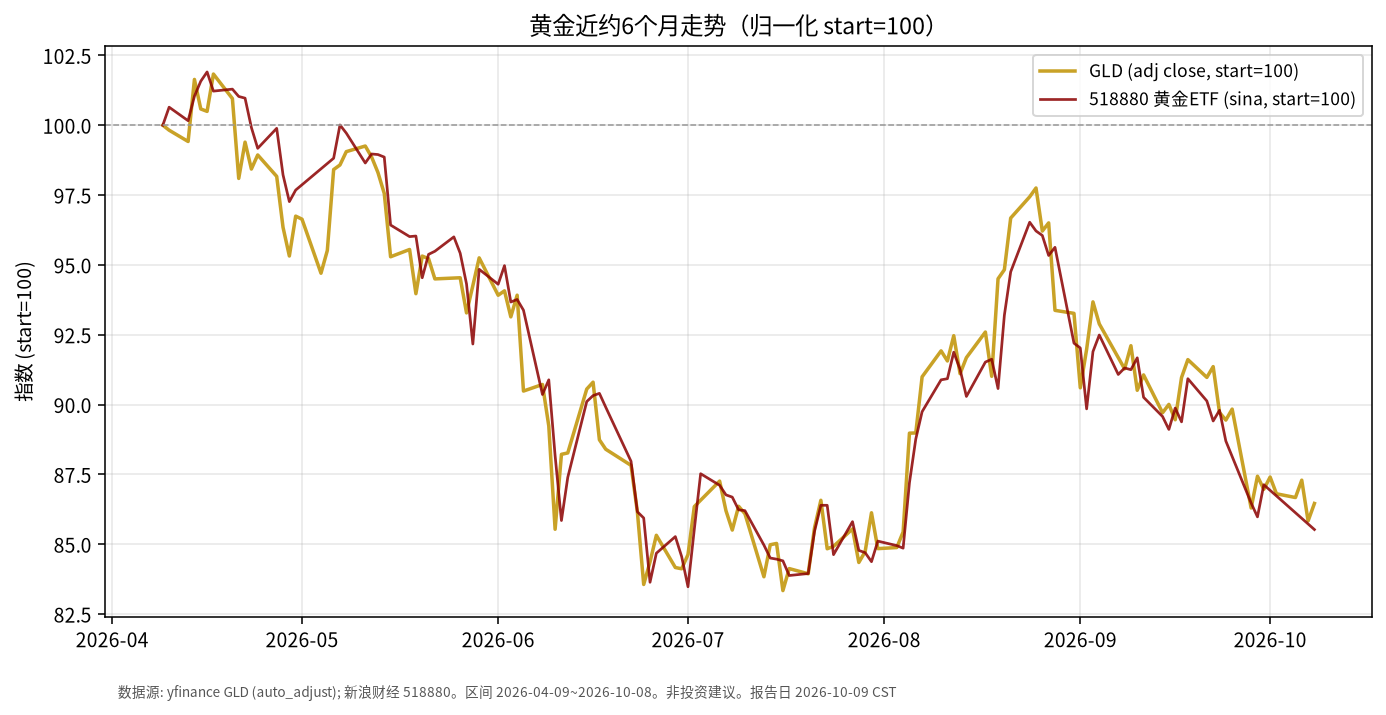
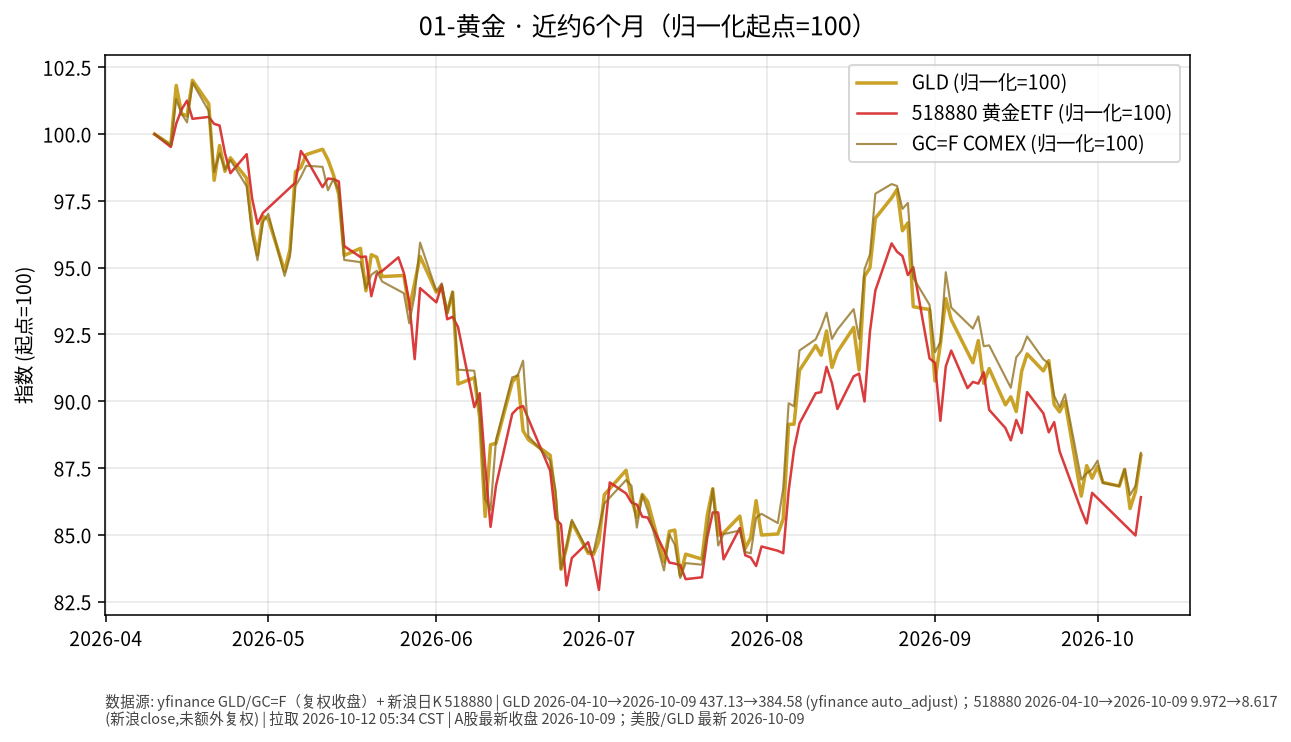
docs: 五门类投资日报 2026-10-12

Changed region(s): [[0.0, 0.0, 0.9915, 0.9846]]

diff --git a/01-黄金/日报/2026-10-12.md b/01-黄金/日报/2026-10-12.md
@@ -1,0 +1,44 @@
+# 黄金日报 · 2026-10-12
+
+> 日历说明：报告日为 **2026-10-12（周一，Asia/Shanghai）清晨约 05:30**。A股国庆休市为 10/1–10/7，**10/8 起照常开市**；**2026-10-10 为周六**（非交易日）。本报告撰写时 A股当日尚未开盘，**国内相关收盘价取 2026-10-09（周五）**。美股/GLD 取 **2026-10-09** 收盘（周末及周一美股哥伦布日休市安排以交易所公告为准，本稿不引用未公布收盘）。
+
+![近6个月](charts/gold_6m.png)
+
+## 1. 市场状态
+
+- 海外现货金价在 10/9（周五）延续反弹：公开报道现货收于约 **4194～4199 美元/盎司**量级（当日约 **+1.5%**），盘中一度试探 **4200** 上方后回落；COMEX 黄金期货（GC=F）当日收于约 **4216**。
+- ETF 口径：**GLD** 10/9 收盘 **384.58**，较前一交易日 **378.62** 上涨约 **+1.57%**，为近一周相对强势一日。
+- 在岸代理：华安黄金 ETF **518880** 10/9 收盘 **8.617**，较 10/8 的 **8.474** 约 **+1.69%**；上金所 Au99.99 10/9 收盘约 **904.48 元/克**（约 +1.40%）。节前 9/30 的 518880 收于 **8.633**，两日合计仍略低于节前。
+- 宏观背景（公开报道）：美债 10 年期收益率 10/9 收于约 **5.244%**（较 10/8 的 5.231% 略升约 **1.3 bp**），美元指数约 **102.2**；周中曾因实际利率/美债飙升压制金价，周末前出现逢低买盘与周度录得约三周来首次上涨的公开叙述。高实际利率与强美元仍是描述无息黄金机会成本的主线因素。
+- 汇率：USD/CNY（yfinance CNY=X）最新约 **6.683**（10/11 报价），近月人民币相对美元略有升值倾向，在岸黄金与美元金价可能出现短期偏离。
+
+## 2. 关键数据
+
+| 标的 | 最新交易日 | 收盘 | 日变动 | 近约1个月 | 近约6个月（自约2026-04-10） |
+|------|------------|------|--------|-----------|------------------------------|
+| GLD（yfinance, auto_adjust） | 2026-10-09 | **384.58** | **+1.57%** | 约 **-3.8%** | 约 **-12.0%** |
+| 518880 黄金ETF（新浪日K close） | 2026-10-09 | **8.617** | **+1.69%** | 约 **-4.5%** | 约 **-13.6%** |
+| 上金所 Au99.99（官网日行情） | 2026-10-09 | **904.48** 元/克 | **+1.40%** | 约 **-4.8%** | 约 **-13.6%** |
+| 美债10Y ^TNX（yfinance） | 2026-10-09 | **5.244%** | 约 **+1.3 bp** | 水平抬升 | 自约4.3%升至5.24%量级 |
+
+图表为 GLD 与 518880 归一化至 start=100 的可比走势（见上图）。
+
+## 3. 简要解读
+
+- 近半年黄金 ETF/现货价格自 4 月高位回撤仍明显：GLD、518880 与上金所现货轨迹高度同步，反映**利率/美元主导**的定价环境。
+- 10/9 海外与在岸同步反弹，扭转周中回撤的一部分；但月度与半年维度仍处回撤区间，单日反弹不改变半年回撤事实。
+- 本文只描述价格与利率如何共同变化，不评价是否应增减仓。
+
+## 4. 关注点与风险
+
+- **美债实际利率与美元**：若收益率再度逼近近期高点，对黄金的机会成本压力可能再现；市场公开关注后续美国 CPI 等数据窗口。
+- **政策预期**：联储官员表态与加息定价影响“更高更久”路径，属于不确定项。
+- **在岸/离岸价差**：518880、上金所与 GLD/现货可能因汇率、交易时段、折溢价出现短期偏离。
+- **数据局限**：国内金价另有纸黄金等口径，本报告以 ETF/上金所公开行情为主。
+
+## 5. 来源与时间
+
+- 行情：yfinance（GLD、GC=F、^TNX、CNY=X）；新浪财经日K（518880）；上金所官网日行情（Au99.99）——拉取时间约 **2026-10-12 05:34 CST**。
+- 现货与宏观叙述：Kitco / Mitrade / 公开财经报道关于 10/9 金价与美债收益率（约 4194～4200 美元、周度约 +1%～1.5%）。
+- A股休市安排：上交所 2026 年中秋/国庆休市公告（10/1–10/7 休市，10/8 起开市；10/10 为周六周末休市）。
+- 声明：事实梳理，**非投资建议**。

diff --git a/03-国债/日报/2026-10-12.md b/03-国债/日报/2026-10-12.md
@@ -1,0 +1,42 @@
+# 国债日报 · 2026-10-12
+
+> 日历说明：报告日 **2026-10-12 清晨 CST**；国内价格取 **2026-10-09**；美债收益率取 **2026-10-09**。**注意：收益率上行对应债券价格承压，图中右轴利率↑并不表示债价上涨。**
+
+![近6个月](charts/treasury_6m.png)
+
+## 1. 市场状态
+
+- 国内：国泰上证 5 年期国债 ETF **511010** 10/9 收盘 **140.737**，较 10/8 **140.705** 约 **+0.023%**；相对节前 9/30 **140.735** 基本持平。
+- 银行间（新华财经 10/9）：10 年期国债“26附息国债16”收益率下行约 **0.42 bp** 报约 **1.6778%**；中债估值中心日评称中债国债曲线 10 年期稳定在约 **1.69%**。国债期货 10 年期主力约涨 **0.09%**。
+- 海外对照：美债 10 年期 ^TNX 10/9 收于约 **5.244%**，较 10/8 的 **5.231%** 略升约 **1.3 bp**；近月仍处多年高位区震荡。
+- 内外利率水平差仍大：国内长端利率低位窄幅波动，美债长端高位震荡——分属不同宏观定价体系。
+
+## 2. 关键数据
+
+| 标的 | 最新交易日 | 水平 | 变动 | 近约6个月 |
+|------|------------|------|------|-----------|
+| **511010** 价格 | 2026-10-09 | **140.737** | +0.023%（相对10/8） | 约 **+0.24%**（自约4/10） |
+| 中国 10Y 国债收益率（银行间活跃券/中债曲线，公开债市日报） | 2026-10-09 | 约 **1.68%～1.69%** | 约 **-0.4 bp**（活跃券口径） | — |
+| 美债 10Y ^TNX | 2026-10-09 | **5.244%** | 约 **+1.3 bp**（相对10/8） | 自约 4.3% 升至 5.24%量级 |
+
+图表：左轴 511010 价格归一化 start=100；右轴 ^TNX 收益率（%）——**利率轴上升 ≠ 债价上涨**。
+
+## 3. 简要解读
+
+- 511010 近半年价格几乎走平略升（约 +0.2%），体现中短久期利率债在国内低波动环境中的路径。
+- 10/9 国内利率小幅下行、ETF 价格微涨，方向一致。
+- 美债收益率近半年显著抬升，与黄金回撤同期出现，属跨资产事实关联，不构成操作指令。
+- **久期事实**：利率变动对中长久期品种价格影响通常大于短融；此处仅为敏感度描述，非仓位建议。
+
+## 4. 关注点与风险
+
+- **久期**：5 年期国债 ETF 对利率变动敏感度高于短融，但低于超长债。
+- **财政与供给**：特别国债/地方债供给节奏可能扰动利率曲线；公开机构观点提到四季度政府债供给节奏或放缓。
+- **海外溢出**：美债波动对国内利率的传导不稳定，需分市场观察。
+- 期货与现券、ETF 价格可能短期不一致；不同口径（中债曲线 vs 活跃券）收益率数值可能略有差异。
+
+## 5. 来源与时间
+
+- 511010：新浪财经日K；^TNX：yfinance —— **2026-10-12 约 05:34 CST**。
+- 国内收益率与期货：新华财经《债市日报：10月9日》；中债估值中心《中债收益率曲线和指数日评2026年10月9日》。
+- 声明：事实梳理，**非投资建议**。

diff --git a/05-高股息/日报/2026-10-12.md b/05-高股息/日报/2026-10-12.md
@@ -1,0 +1,41 @@
+# 高股息日报 · 2026-10-12
+
+> 日历说明：报告日 **2026-10-12 清晨 CST**；最新收盘 **2026-10-09（周五）**。国庆后第二交易日，三大指数探底回升收涨；**红利风格内部有所分化**（公开盘面：煤炭等偏强，银行回调）。
+
+![近6个月](charts/high_div_6m.png)
+
+## 1. 市场状态
+
+- 10/9 上证指数收报 **3813.79**，约 **+0.05%**；深成指约 **+0.17%** 报 **12641.86**；创业板指约 **+0.22%** 报 **3043.33**；科创50约 **+0.07%**。沪深两市成交额约 **1.90～1.92 万亿元**，较前一日放量。
+- 风格：公开报道称红利资产整体仍偏强（中证红利约 **+0.82%**、实现三连涨），但内部走分——煤炭领涨、保险/电力小幅走强，**银行板块回调**；红利低波指数微跌约 **0.25%～0.3%**。
+- 样本标的：红利 ETF **510880** 上涨约 **+0.44%**；长江电力 **600900** 约 **+0.31%**；招商银行 **600036** 约 **-0.70%**。
+
+## 2. 关键数据
+
+| 标的 | 最新交易日 | 收盘 | 日变动 | 相对9/30 | 近约6个月（自约2026-04-10） |
+|------|------------|------|--------|----------|------------------------------|
+| **510880** 华泰柏瑞红利ETF | 2026-10-09 | **3.431** | **+0.44%** | **+1.87%** | 约 **+6.62%** |
+| **600036** 招商银行 | 2026-10-09 | **41.42** | **-0.70%** | **+0.39%** | 约 **+5.64%** |
+| **600900** 长江电力 | 2026-10-09 | **28.99** | **+0.31%** | **+1.58%** | 约 **+9.81%** |
+
+图表为三标的 close 归一化 start=100（新浪日K；市价口径，**不含分红再投**；长期比较请核对除权除息）。
+
+## 3. 简要解读
+
+- 10/9 宽基窄幅收涨，红利指数相对强于大盘，但样本内银行回调、水电/红利 ETF 小涨，说明高股息并非同涨同跌。
+- 近 6 个月三标的价格累计升幅约 **5.6%～9.8%**，显著高于同期债券 ETF 的价格变动，也与黄金 ETF 回撤形成对照——仅陈述分化事实。
+- 公开分红日历：具体除权除息日以交易所与公司公告为准；本报告不编造未核实的派息日期。
+
+## 4. 关注点与风险
+
+- **风格切换可逆**：若风险偏好回升或成长风格占优，红利相对优势可能阶段性减弱。
+- **盈利与分红**：银行净息差、水电来水与电价政策等基本面因素会影响分红可持续性。
+- **估值与拥挤度**：资金集中流入时波动与回撤风险上升；10/9 中证红利成交放量（公开笔记称量比抬升）意味着分歧可能加大。
+- **口径**：价格收益 ≠ 含分红总回报；ETF 跟踪误差与费用需单独查看。
+
+## 5. 来源与时间
+
+- 个股/ETF/指数：新浪财经日K —— **2026-10-12 约 05:34 CST**。
+- 指数与风格：东方财富/雪球/每日经济新闻等 10/9 收盘与红利板块公开报道。
+- 休市安排：上交所 2026 年国庆休市安排（10/10 为周六）。
+- 声明：事实梳理，**非投资建议**。

diff --git a/02-中短债/日报/2026-10-12.md b/02-中短债/日报/2026-10-12.md
@@ -1,0 +1,40 @@
+# 中短债日报 · 2026-10-12
+
+> 日历说明：报告日 **2026-10-12（周一）清晨 CST**；A股 **10/8、10/9 已开市**（国庆 10/1–10/7 休市；**10/10 为周六**），当日盘前报告取 **2026-10-09** 收盘为最新。
+
+![近6个月](charts/midshort_bond_6m.png)
+
+## 1. 市场状态
+
+- 10/9（周五）短端利率债 ETF 价格波动仍极小：中证短融 ETF **511360** 微升；深市中短债 **159649** 持平。
+- 银行间债市（新华财经《债市日报：10月9日》）：利率债收益率回落约 **0.5 bp** 量级；公开市场单日净回笼约 **6040 亿元**，但 Shibor 短端多数下行（隔夜约 **1.313%**，公开报道称创 2026 年 5 月以来新低）——资金价格转松与短久期券价“窄幅整理”并存。
+- 近半年维度：短融/中短债 ETF 价格缓升，波动显著小于权益与黄金。
+
+## 2. 关键数据
+
+| 标的 | 最新交易日 | 收盘 | 日变动 | 相对9/30（节前） | 近约6个月（自约2026-04-10） |
+|------|------------|------|--------|------------------|------------------------------|
+| **511360** 海富通中证短融ETF | 2026-10-09 | **114.021** | **+0.005%** | **+0.011%** | 约 **+0.62%** |
+| **159649** 中短债ETF（深市） | 2026-10-09 | **110.533** | **0.00%** | **-0.010%** | 约 **+1.04%** |
+
+（新浪财经日K `close` 字段；图表为 start=100 归一化。）
+
+## 3. 简要解读
+
+- 10/9 短端 ETF 价格变动在 **万分之几或持平** 量级，符合短久期、票息主导的特征。
+- 近 6 个月累计价格升幅约 **0.6%～1.0%**（未计入可能分红，需以基金公告为准），路径相对平滑。
+- 资金面“大规模逆回购到期 + 短端利率下行”的组合，显示季节性宽松与操作回笼可同时出现；ETF 价格尚未出现大幅回撤。
+
+## 4. 关注点与风险
+
+- **资金利率与公开市场操作**：月中政府债缴款、工具到期等可能带来短端利率脉冲（公开机构观点常见表述）。
+- **信用下沉差异**：短融指数成分以高等级短久期信用为主，但仍有信用利差波动风险。
+- **净值与交易价**：ETF 二级市场价格可能相对 IOPV 出现短暂折溢价。
+- 价格收益 ≠ 含分红总回报；具体分红以基金公司披露为准。
+
+## 5. 来源与时间
+
+- 行情：新浪财经日K —— **2026-10-12 约 05:34 CST** 拉取。
+- 债市环境：新华财经《债市日报：10月9日》（银行间收益率、国债期货、资金面、Shibor）。
+- 休市安排：上交所 2026 年国庆休市通知。
+- 声明：事实梳理，**非投资建议**。

diff --git a/04-纯债/日报/2026-10-12.md b/04-纯债/日报/2026-10-12.md
@@ -1,0 +1,39 @@
+# 纯债日报 · 2026-10-12
+
+> 日历说明：报告日 **2026-10-12（周一）清晨 CST**；最新收盘取 **2026-10-09**（国庆后第二交易日；10/10 为周六休市）。
+
+![近6个月](charts/pure_bond_6m.png)
+
+## 1. 市场状态
+
+- 10/9 信用/政金债 ETF 价格小幅上行：城投债 ETF **511220**、政金债 ETF **511520** 日涨幅约 **0.07%** 量级，波动仍远小于权益。
+- 债市环境（新华财经 10/9）：利率债收益率回落、国债期货全线上涨；信用债方面公开日评称中短票收益率曲线总体稳定。资金面短端利率下行，对中长久期纯债价格构成温和支撑叙述（事实层面：价格与利率方向同日一致）。
+- 近半年：两只样本 ETF 价格累计升幅约 **1.1%～1.9%**，路径相对平滑。
+
+## 2. 关键数据
+
+| 标的 | 最新交易日 | 收盘 | 日变动 | 相对9/30 | 近约6个月（自约2026-04-10） |
+|------|------------|------|--------|----------|------------------------------|
+| **511220** 城投债ETF | 2026-10-09 | **10.447** | **+0.067%** | **+0.038%** | 约 **+1.14%** |
+| **511520** 政金债ETF | 2026-10-09 | **118.835** | **+0.066%** | **+0.029%** | 约 **+1.91%** |
+
+（新浪财经日K `close`；图表归一化 start=100。）
+
+## 3. 简要解读
+
+- 10/9 两只纯债 ETF 同步微涨，与当日利率小幅下行的公开债市描述方向一致。
+- 近 6 个月 511520（久期通常更长）价格升幅大于 511220，符合“利率下行时更长久期价格弹性更大”的一般事实关系；亦意味着利率回升时回撤可能更大——仅为敏感度事实。
+- 价格变动未计入分红再投；总回报需以基金净值与分红公告为准。
+
+## 4. 关注点与风险
+
+- **信用利差**：城投债对区域与行业信用事件更敏感；政金债更接近利率债，但仍有流动性与基差风险。
+- **久期与利率**：中长久期品种对利率上行更敏感。
+- **折溢价与流动性**：ETF 二级市场成交与 IOPV 可能短暂偏离。
+- 杠杆、下沉等策略不在本报告讨论范围；本文仅陈述公开价格路径。
+
+## 5. 来源与时间
+
+- 行情：新浪财经日K —— **2026-10-12 约 05:34 CST**。
+- 债市环境：新华财经《债市日报：10月9日》；中债估值中心日评（信用品种曲线描述）。
+- 声明：事实梳理，**非投资建议**。
